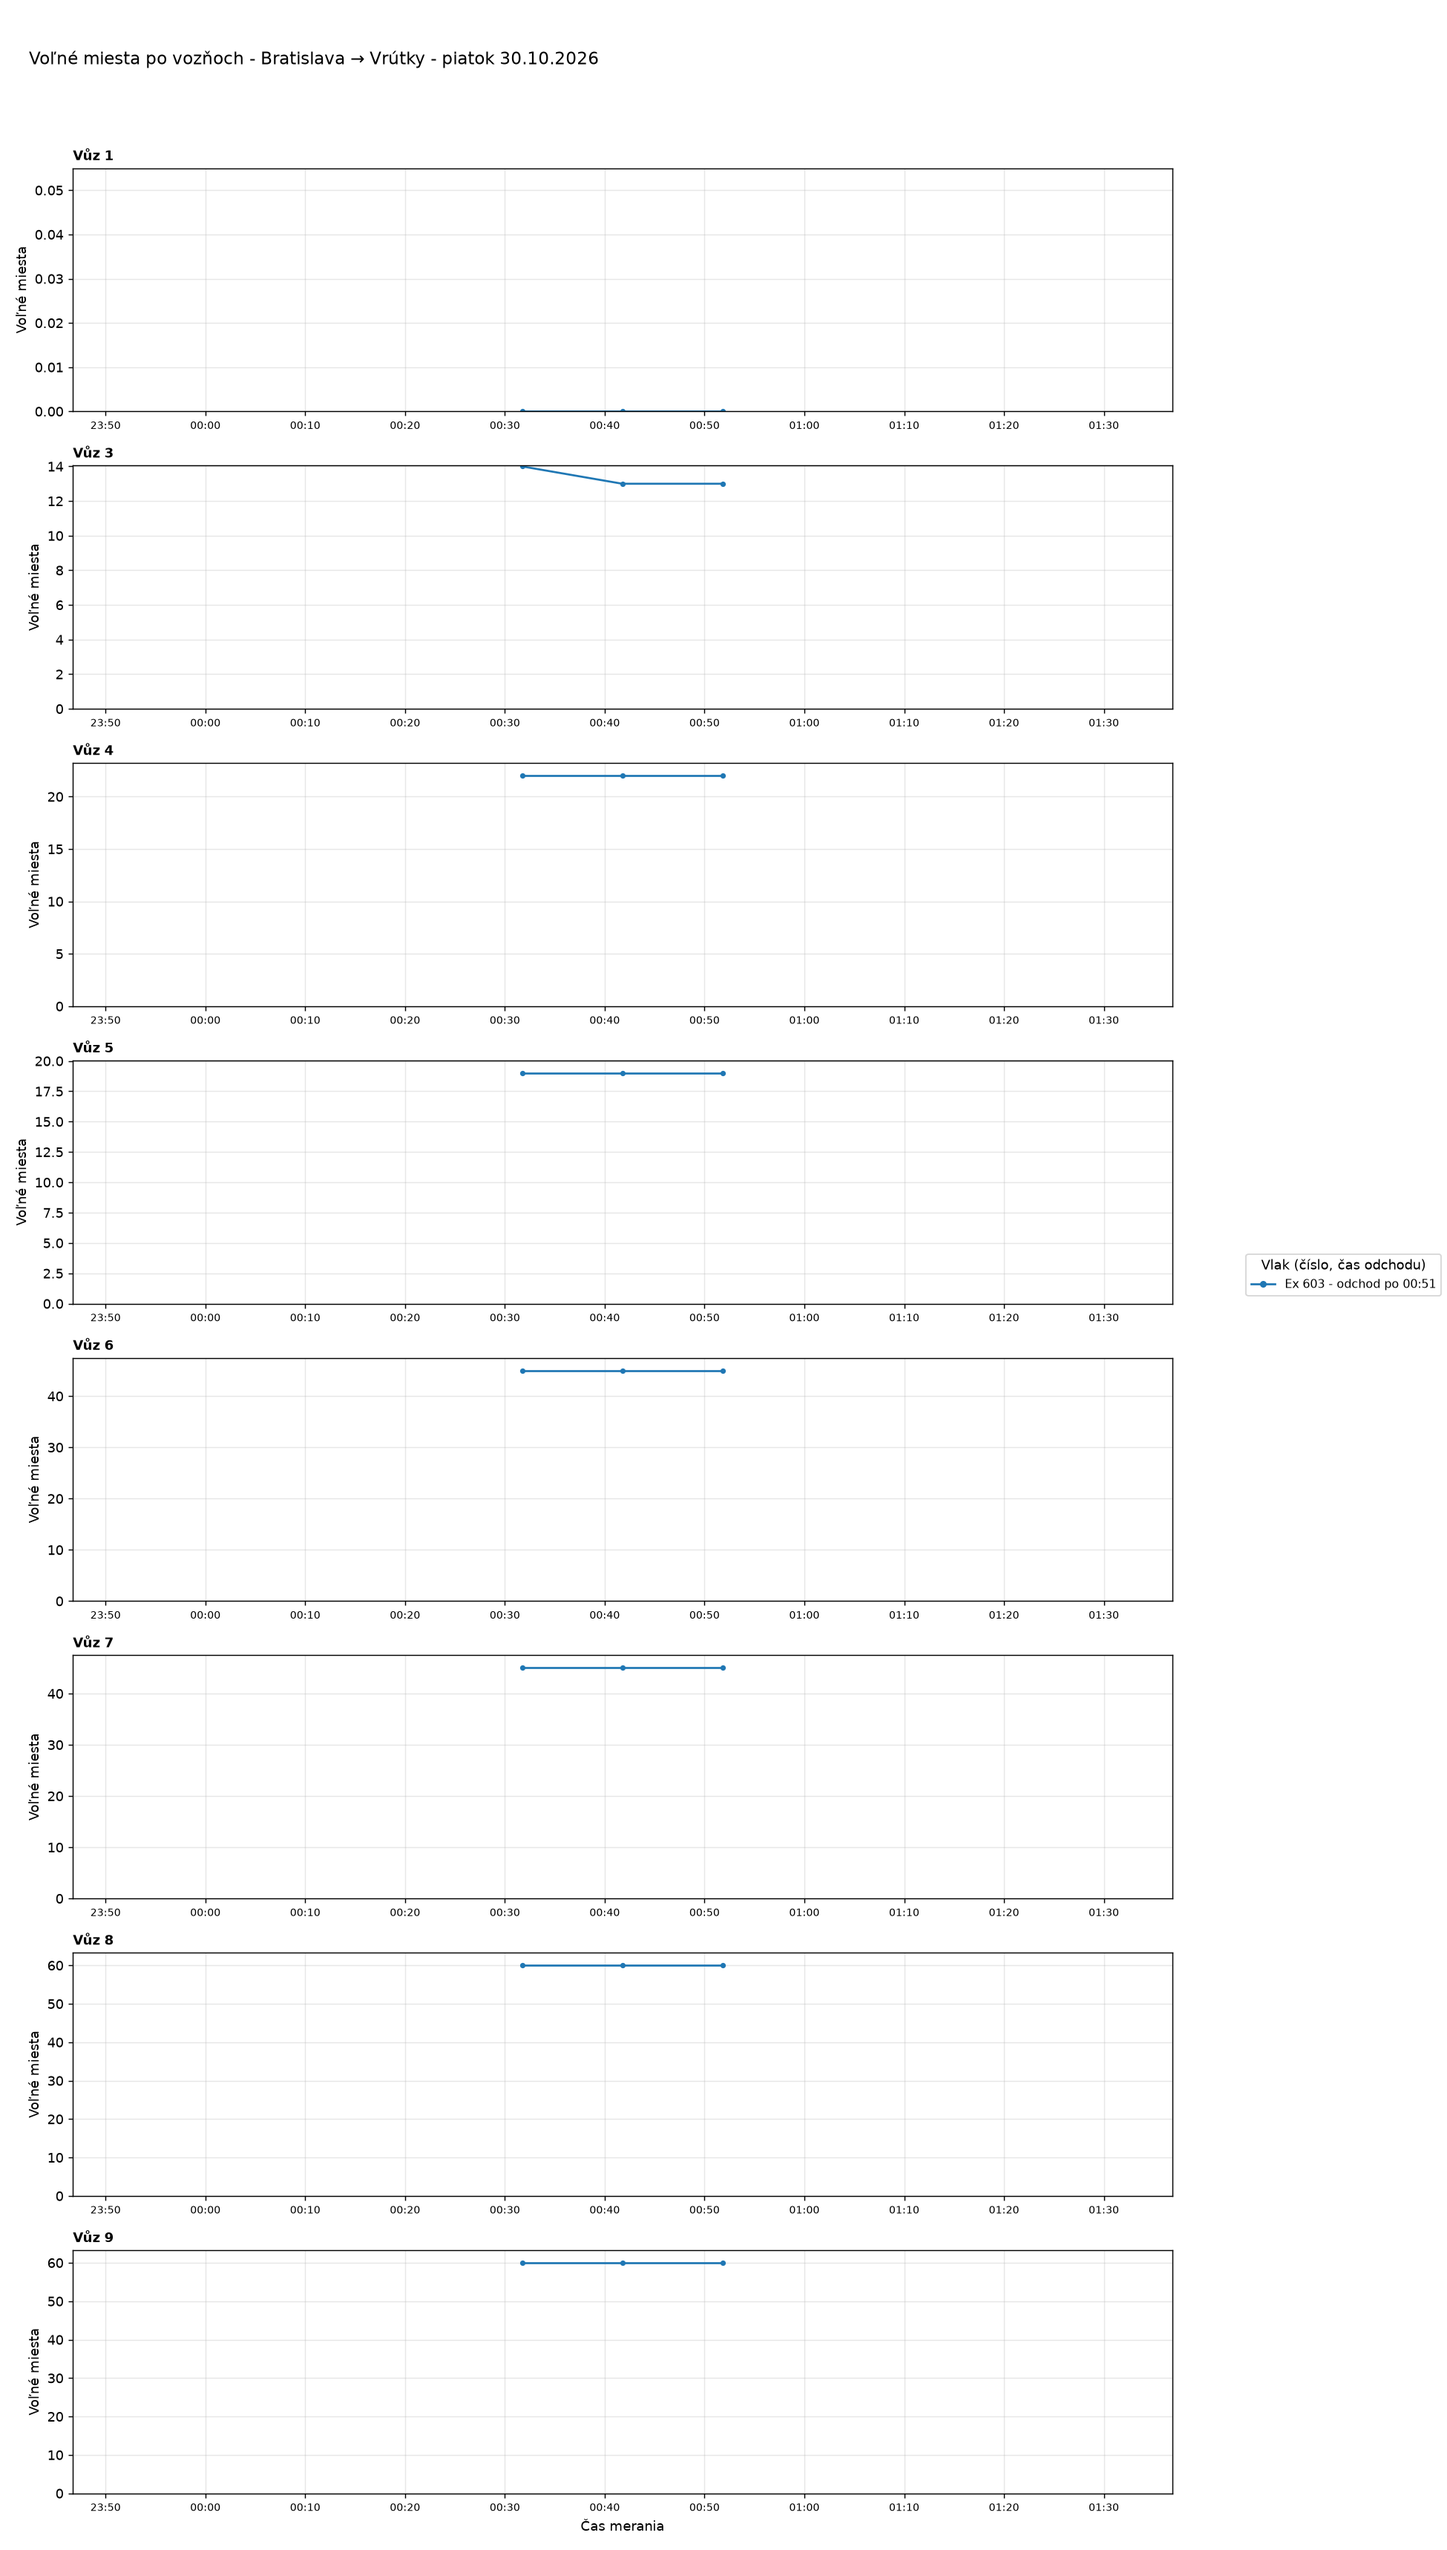
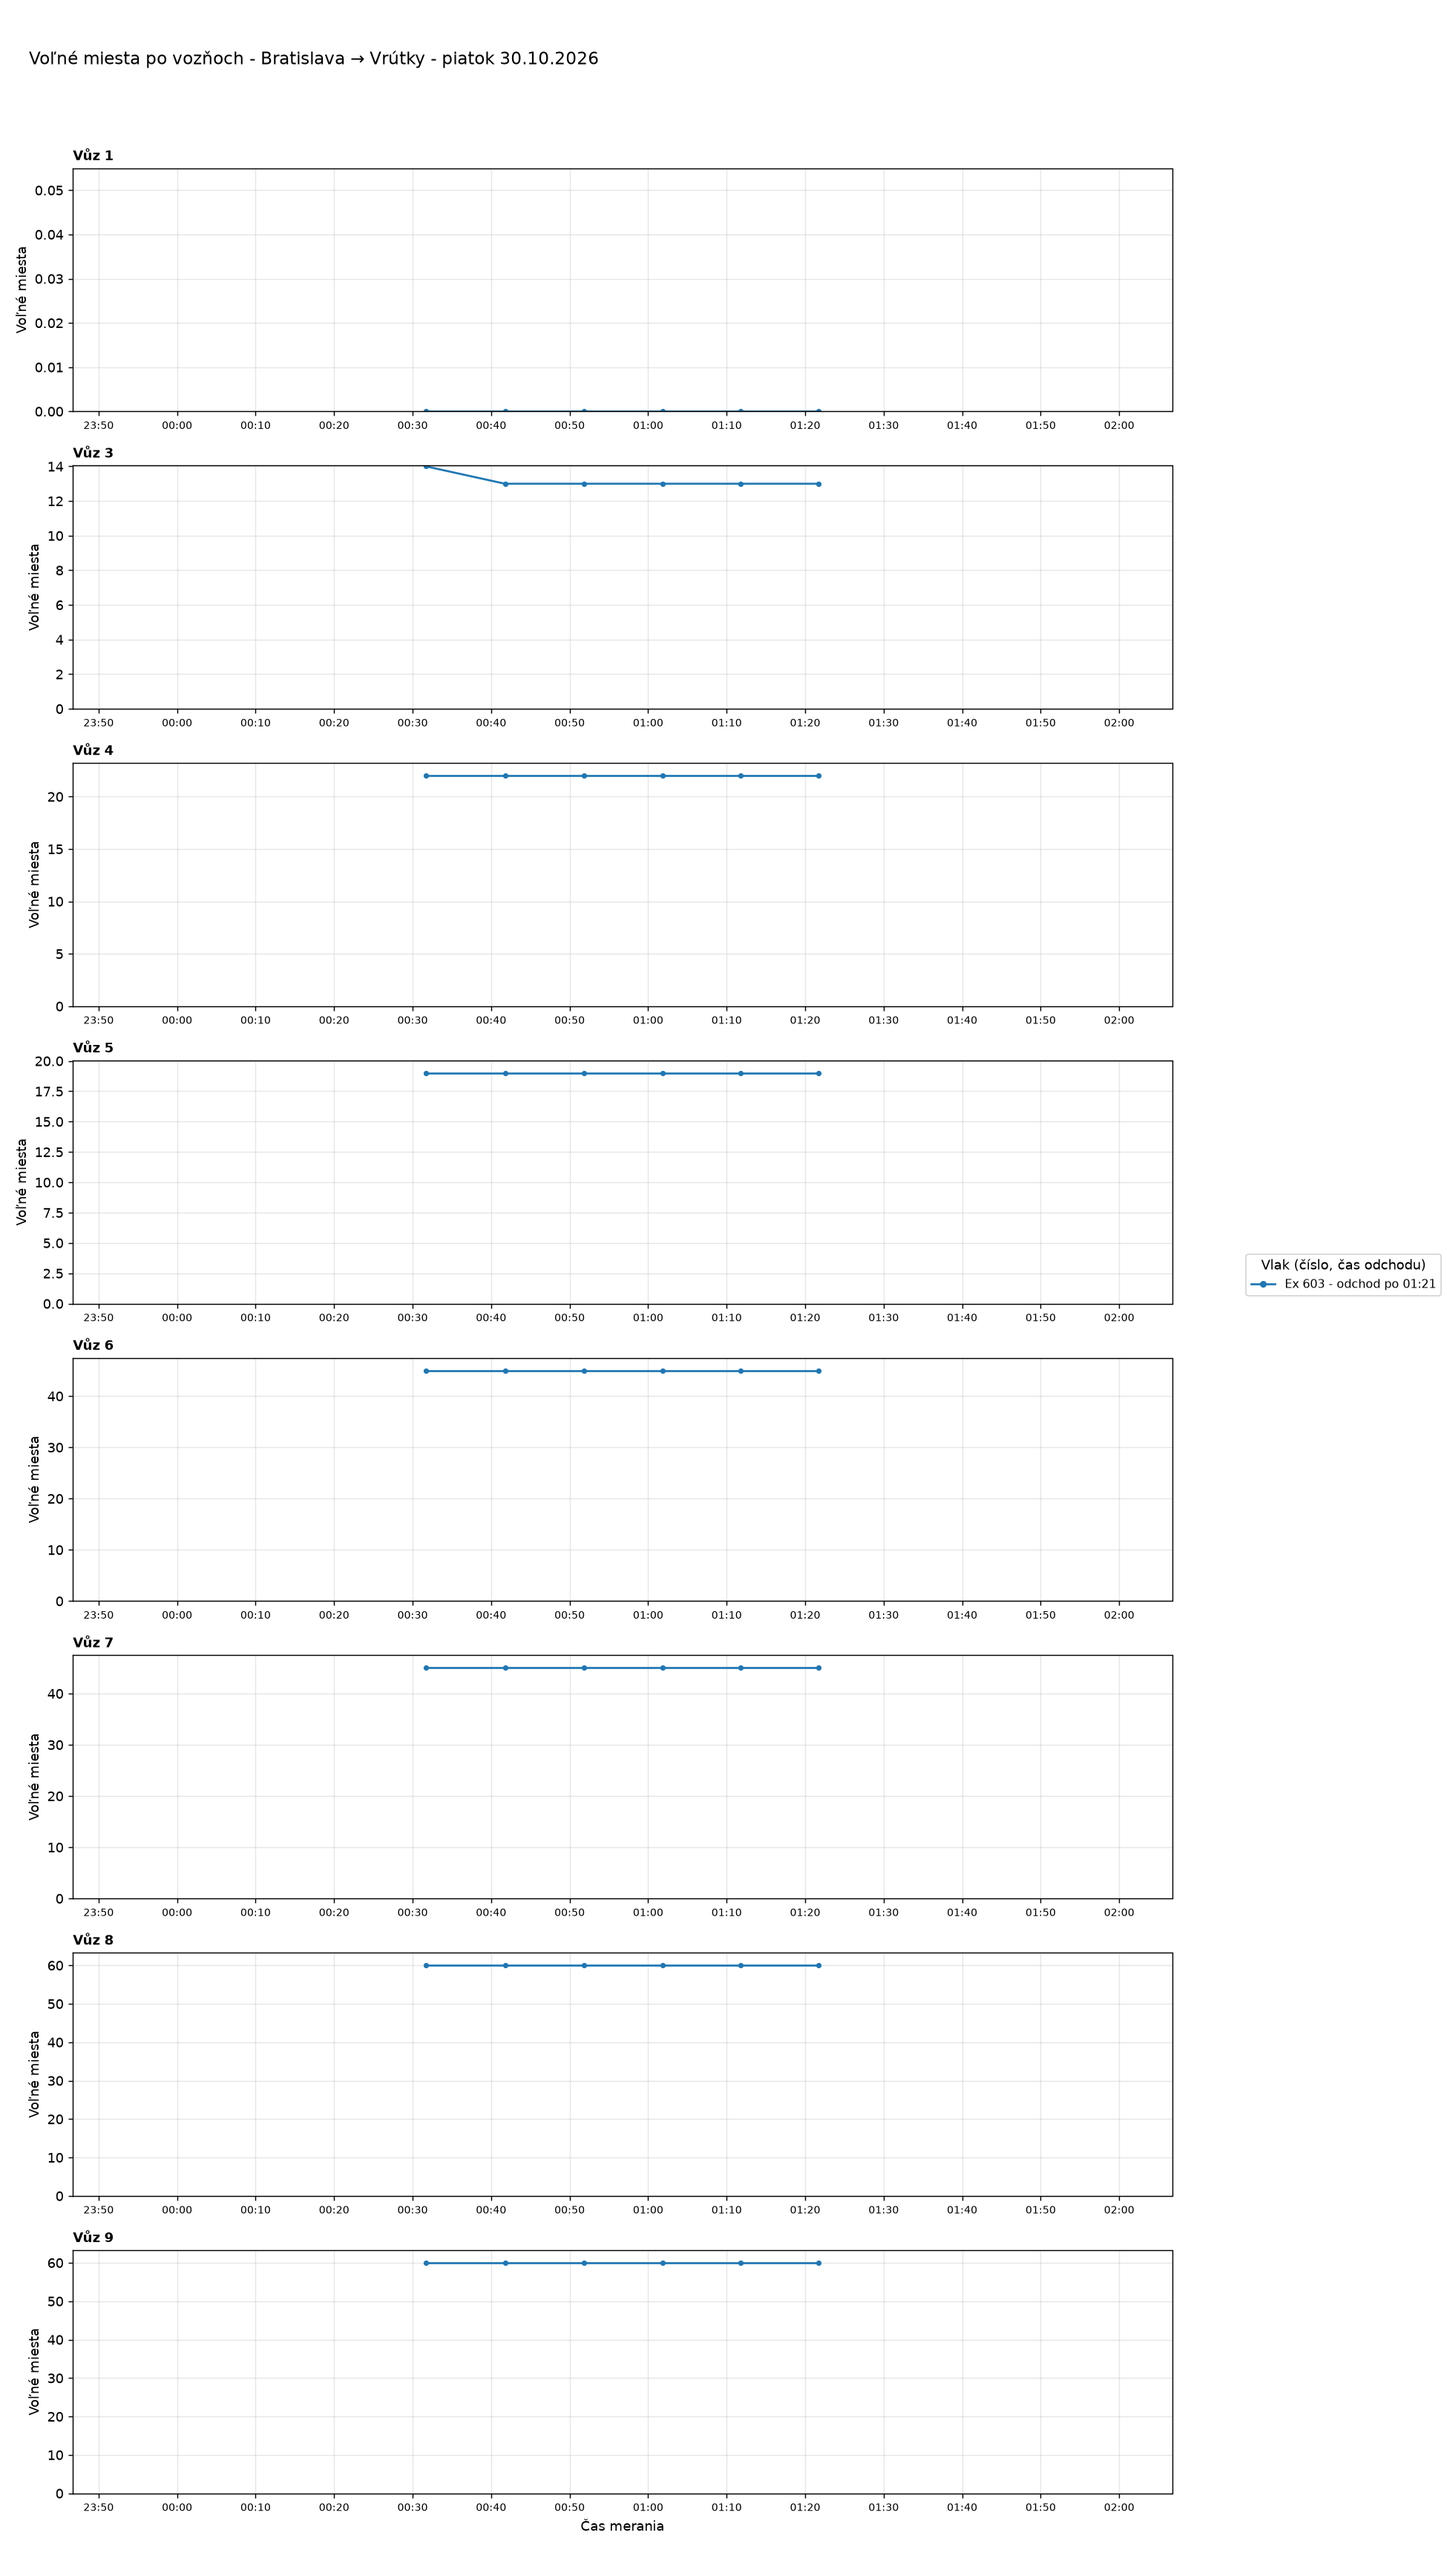
Aktualizácia grafov 2026-10-30 01:30

diff --git a/index.html b/index.html
@@ -37,7 +37,7 @@ details.trasa>summary{cursor:pointer;font-weight:600;font-size:1.1rem;padding:8p
 <body>
 <main>
 <h1>Voľné miesta vo vlakoch</h1>
-<p class="muted">Posledné meranie: 30.10.2026 00:53 ·
+<p class="muted">Posledné meranie: 30.10.2026 01:23 ·
 <a href="data/obsadenost_data.csv">stiahnuť dáta (CSV)</a></p>
 <nav class="nav"><a href="#suhrn">Súhrn</a><a href="#statistiky">Štatistiky</a><a href="#historia">História grafov</a></nav>
 
@@ -46,9 +46,9 @@ details.trasa>summary{cursor:pointer;font-weight:600;font-size:1.1rem;padding:8p
 <div class="tablewrap"><table>
 <thead><tr><th>Deň</th><th>Trasa</th><th>Meraní</th><th>Vlakov</th><th>Čas meraní</th></tr></thead>
 <tbody>
-<tr><td><a href="#dBA-VR-2026-10-30">piatok 30.10.2026</a></td><td>Bratislava → Vrútky</td><td>3</td><td>1</td><td>00:31-00:51</td></tr>
-<tr><td><a href="#dBA-KE-2026-10-30">piatok 30.10.2026</a></td><td>Bratislava → Košice</td><td>4</td><td>1</td><td>00:22-00:53</td></tr>
-<tr><td><a href="#dKE-BA-2026-10-30">piatok 30.10.2026</a></td><td>Košice → Bratislava</td><td>4</td><td>1</td><td>00:23-00:53</td></tr>
+<tr><td><a href="#dBA-VR-2026-10-30">piatok 30.10.2026</a></td><td>Bratislava → Vrútky</td><td>6</td><td>1</td><td>00:31-01:21</td></tr>
+<tr><td><a href="#dBA-KE-2026-10-30">piatok 30.10.2026</a></td><td>Bratislava → Košice</td><td>6</td><td>1</td><td>00:22-01:22</td></tr>
+<tr><td><a href="#dKE-BA-2026-10-30">piatok 30.10.2026</a></td><td>Košice → Bratislava</td><td>7</td><td>1</td><td>00:23-01:23</td></tr>
 <tr><td><a href="#dBA-VR-2026-10-29">štvrtok 29.10.2026</a></td><td>Bratislava → Vrútky</td><td>84</td><td>14</td><td>00:01-23:31</td></tr>
 <tr><td><a href="#dVR-BA-2026-10-29">štvrtok 29.10.2026</a></td><td>Vrútky → Bratislava</td><td>75</td><td>15</td><td>02:42-21:02</td></tr>
 <tr><td><a href="#dBA-KE-2026-10-29">štvrtok 29.10.2026</a></td><td>Bratislava → Košice</td><td>76</td><td>13</td><td>00:03-23:22</td></tr>
